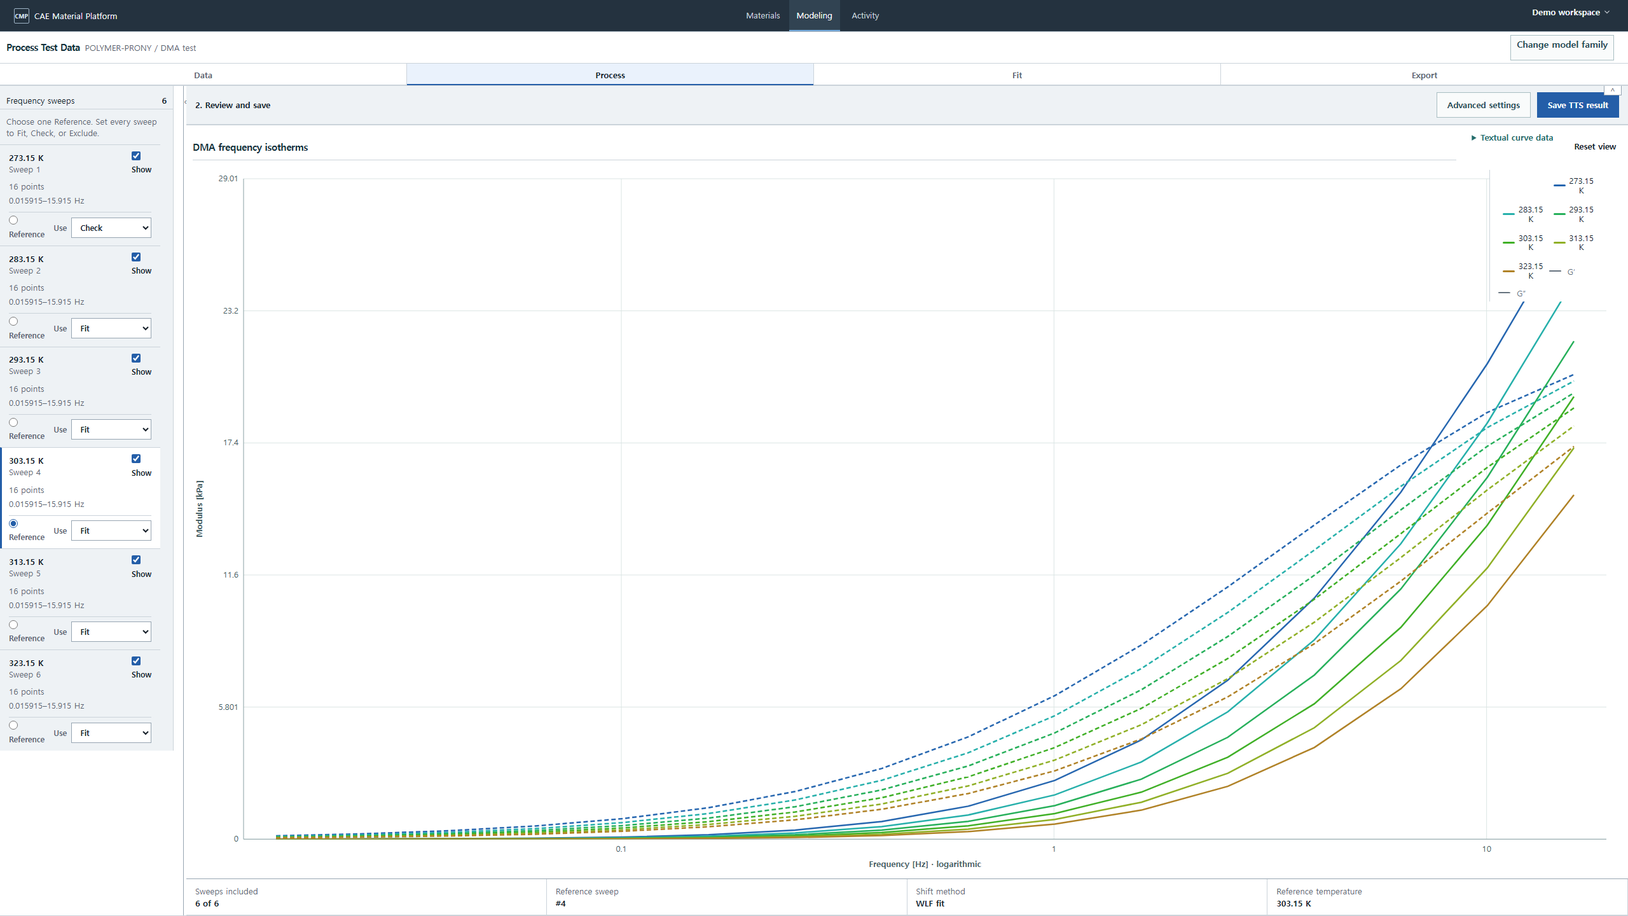
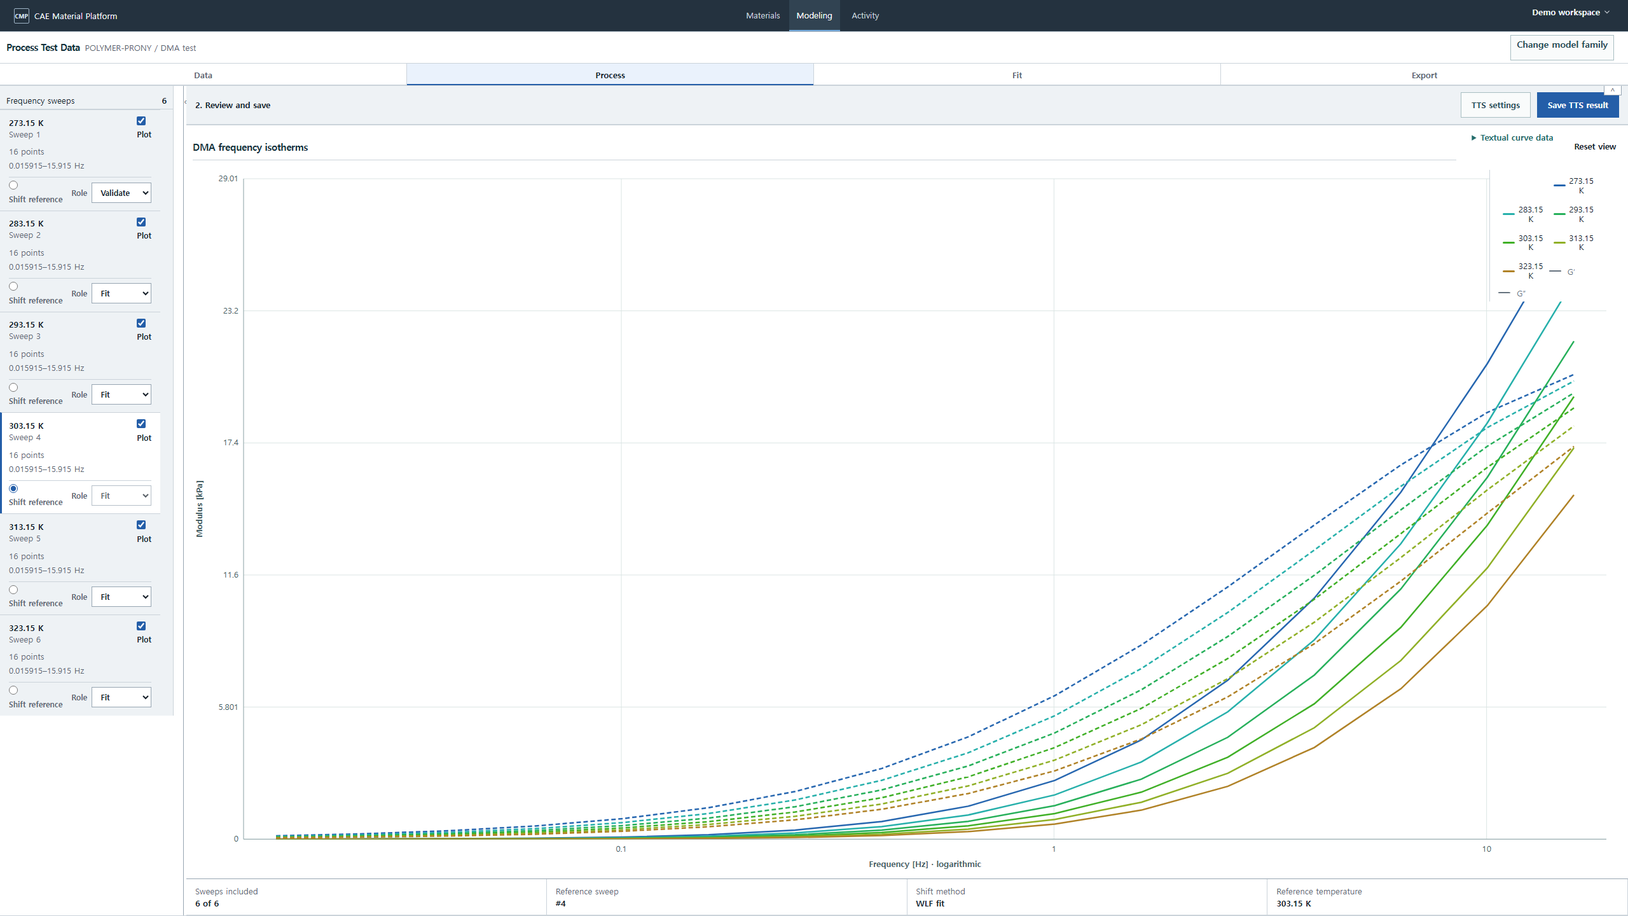
fix: clarify DMA TTS process controls

Changed region(s): [[0.0, 0.125, 0.0938, 0.8125], [0.875, 0.0938, 0.9062, 0.125]]

diff --git a/apps/web/src/features/modeling/ui/stages/process/dma-tts-process-workspace.tsx b/apps/web/src/features/modeling/ui/stages/process/dma-tts-process-workspace.tsx
@@ -31,8 +31,8 @@ export interface DmaTtsProcessWorkspaceProps {
 
 const PARTITION_LABELS: Record<DmaTtsPartition, string> = {
   CALIBRATION: "Fit",
-  HOLDOUT: "Check",
-  EXCLUDED: "Exclude",
+  HOLDOUT: "Validate",
+  EXCLUDED: "Ignore",
 };
 
 const SHIFT_LAW_LABELS: Record<string, string> = {
@@ -96,6 +96,7 @@ function MultiSweepRail({
   onReference,
   onToggle,
   onPartition,
+  onExclusionReason,
 }: {
   source: NonNullable<ReturnType<typeof useDmaTtsProcess>["multiSource"]>;
   draft: ReturnType<typeof useDmaTtsProcess>["draft"];
@@ -107,10 +108,10 @@ function MultiSweepRail({
   onReference: (ordinal: number) => void;
   onToggle: (ordinal: number) => void;
   onPartition: (ordinal: number, partition: DmaTtsPartition) => void;
+  onExclusionReason: (ordinal: number, reason: string) => void;
 }) {
   return <nav className="dma-tts-sweep-rail" aria-label="DMA frequency sweeps">
     <div className="dma-tts-rail-heading"><span>Frequency sweeps</span><strong>{source.sweeps.length}</strong></div>
-    <p className="dma-tts-rail-note">{locked ? "Saved setup. You can still show or hide curves." : "Choose one Reference. Set every sweep to Fit, Check, or Exclude."}</p>
     <div className="dma-tts-sweep-list" tabIndex={0} aria-label="Measured DMA frequency sweeps">
       {source.sweeps.map((sweep) => {
         const disposition = draft?.sweepDispositions.find((item) => item.source_sweep_ordinal === sweep.sourceSweepOrdinal);
@@ -123,13 +124,14 @@ function MultiSweepRail({
         return <article className={`dma-tts-sweep-entry${isReference ? " is-reference" : ""}`} key={sweep.sourceSweepOrdinal}>
           <div className="dma-tts-sweep-entry-head">
             <div><strong>{compact(sweep.representativeTemperatureK)} K</strong><span>Sweep {sweep.sourceSweepOrdinal}</span></div>
-            <label className="dma-tts-sweep-visibility"><input type="checkbox" checked={visible} onChange={() => onToggle(sweep.sourceSweepOrdinal)} /><span>Show</span></label>
+            <label className="dma-tts-sweep-visibility"><input type="checkbox" checked={visible} onChange={() => onToggle(sweep.sourceSweepOrdinal)} /><span>Plot</span></label>
           </div>
           <div className="dma-tts-sweep-meta"><span>{sweep.points.length} points</span><span>{rawRange(sweep.sourceFrequencyMinHz, sweep.sourceFrequencyMaxHz, "Hz")}</span></div>
           <div className="dma-tts-sweep-actions">
-            <label className="dma-tts-reference-choice"><input type="radio" name="dma-tts-reference-sweep" checked={isReference} disabled={locked} onChange={() => onReference(sweep.sourceSweepOrdinal)} /><span>Reference</span></label>
-            <label className="dma-tts-rail-partition"><span>Use</span><select aria-label={`Partition sweep ${sweep.sourceSweepOrdinal}`} value={partition} disabled={locked} onChange={(event) => onPartition(sweep.sourceSweepOrdinal, event.target.value as DmaTtsPartition)}>{(Object.keys(PARTITION_LABELS) as DmaTtsPartition[]).map((value) => <option value={value} key={value}>{PARTITION_LABELS[value]}</option>)}</select></label>
+            <label className="dma-tts-reference-choice"><input type="radio" name="dma-tts-reference-sweep" checked={isReference} disabled={locked} onChange={() => onReference(sweep.sourceSweepOrdinal)} /><span>Shift reference</span></label>
+            <label className="dma-tts-rail-partition"><span>Role</span><select aria-label={`Analysis role for sweep ${sweep.sourceSweepOrdinal}`} value={partition} disabled={locked || isReference} onChange={(event) => onPartition(sweep.sourceSweepOrdinal, event.target.value as DmaTtsPartition)}>{(Object.keys(PARTITION_LABELS) as DmaTtsPartition[]).map((value) => <option value={value} key={value}>{PARTITION_LABELS[value]}</option>)}</select></label>
           </div>
+          {!locked && partition === "EXCLUDED" ? <label className="dma-tts-exclusion-reason"><span>Reason</span><input aria-label={`Reason for ignoring sweep ${sweep.sourceSweepOrdinal}`} value={disposition?.exclusion_reason ?? ""} onChange={(event) => onExclusionReason(sweep.sourceSweepOrdinal, event.target.value)} /></label> : null}
         </article>;
       })}
     </div>
@@ -317,6 +319,7 @@ export function DmaTtsProcessWorkspace({
     onReference={process.setReferenceSweep}
     onToggle={process.toggleSweepVisibility}
     onPartition={process.setSweepDisposition}
+    onExclusionReason={process.setSweepExclusionReason}
   /> : undefined;
 
   const ribbon = <div className="dma-tts-command-ribbon">
@@ -325,7 +328,7 @@ export function DmaTtsProcessWorkspace({
     </div>
     <div className="dma-tts-command-actions">
       {process.canPrepare && !process.recommendation ? <button type="button" className="button primary" disabled={process.status === "preparing"} onClick={() => void process.prepareRecommendation()}>{process.status === "preparing" ? "Preparing…" : "Prepare recommendation"}</button> : null}
-      {process.recommendation && !process.readBack ? <button type="button" className="button secondary" onClick={() => setSettingsOpen((value) => !value)} disabled={process.status === "saving"}>{settingsOpen ? "Hide settings" : "Advanced settings"}</button> : null}
+      {process.recommendation && !process.readBack ? <button type="button" className="button secondary" onClick={() => setSettingsOpen((value) => !value)} disabled={process.status === "saving"}>{settingsOpen ? "Close settings" : "TTS settings"}</button> : null}
       {process.recommendation && !process.readBack ? <button type="button" className="button primary" disabled={!process.canSave || process.status === "saving" || process.status === "save_outcome_unknown"} onClick={() => void process.save()}>{process.status === "saving" ? "Saving…" : "Save TTS result"}</button> : null}
       {process.fitInput && process.status === "saved" ? <button type="button" className="button primary" onClick={onContinue}>Continue to Prony Fit</button> : null}
     </div>
@@ -370,8 +373,8 @@ export function DmaTtsProcessWorkspace({
               <label>C2 <span><input name="dma-tts-c2" autoComplete="off" type="number" inputMode="decimal" value={fixedDraft.c2K} onChange={(event) => process.updateDraft({ c2K: event.target.value, reason: "" })} /><b>K</b></span></label>
             </fieldset> : null}
             {multiDraft ? <div className="dma-tts-multi-settings">
-              <fieldset className="dma-tts-wlf-fields"><legend>Multi-frequency shift law</legend>
-                <label>Law<select name="dma-tts-shift-law" aria-label="Multi-frequency shift law" value={multiDraft.shiftLawKind} onChange={(event) => setMultiLawKind(event.target.value as typeof multiDraft.shiftLawKind)}><option value="wlf_fit">WLF fit</option><option value="arrhenius_fit">Arrhenius fit</option><option value="manual_tabulated">Manual/tabulated shift law</option></select></label>
+              <fieldset className="dma-tts-wlf-fields"><legend>Shift method</legend>
+                <label>Method<select name="dma-tts-shift-law" aria-label="Shift method" value={multiDraft.shiftLawKind} onChange={(event) => setMultiLawKind(event.target.value as typeof multiDraft.shiftLawKind)}><option value="wlf_fit">WLF fit</option><option value="arrhenius_fit">Arrhenius fit</option><option value="manual_tabulated">Manual</option></select></label>
                 <label>Reference temperature <span><input name="dma-tts-multi-reference-temperature" type="number" value={multiDraft.referenceTemperatureK} onChange={(event) => process.updateDraft({ referenceTemperatureK: event.target.value, reason: "" })} /><b>K</b></span></label>
                 {multiDraft.shiftLawKind === "wlf_fit" ? <>
                   <label>Initial C1 <span><input name="dma-tts-multi-c1" type="number" value={multiDraft.initialParameters[0] ?? ""} onChange={(event) => setMultiVector("initialParameters", 0, event.target.value)} /><b>1</b></span></label>
@@ -410,18 +413,17 @@ export function DmaTtsProcessWorkspace({
               <label className="dma-tts-change-reason">Engineer reason <input name="dma-tts-change-reason" autoComplete="off" type="text" value={multiDraft.reason} onChange={(event) => process.updateDraft({ reason: event.target.value })} /></label>
             </div> : null}
             {fixedDraft && settingsEdited ? <label className="dma-tts-change-reason">Reason for changes <input name="dma-tts-change-reason" autoComplete="off" type="text" value={fixedDraft.reason} onChange={(event) => process.updateDraft({ reason: event.target.value })} /></label> : null}
-            {fixedDraft ? <div className="dma-tts-temperature-table-scroll"><table><caption>Temperature disposition</caption><thead><tr><th>Temperature</th><th>Use</th><th>Reason when not used</th></tr></thead><tbody>{process.fixedSource?.rows.map((row) => {
+            {fixedDraft ? <div className="dma-tts-temperature-table-scroll"><table><caption>Temperature disposition</caption><thead><tr><th>Temperature</th><th>Role</th><th>Reason when ignored</th></tr></thead><tbody>{process.fixedSource?.rows.map((row) => {
               const disposition = fixedDraft.dispositions[row.ordinal];
               return <tr key={row.ordinal}><td>{compact(row.temperatureK)} K</td><td><select name={`dma-tts-temperature-${row.ordinal}-use`} aria-label={`Use ${compact(row.temperatureK)} K`} value={disposition.partition} onChange={(event) => process.setDisposition(row.ordinal, event.target.value as DmaTtsPartition)}>{(Object.keys(PARTITION_LABELS) as DmaTtsPartition[]).map((value) => <option value={value} key={value}>{PARTITION_LABELS[value]}</option>)}</select></td><td>{disposition.partition === "EXCLUDED" ? <input name={`dma-tts-temperature-${row.ordinal}-exclusion-reason`} autoComplete="off" aria-label={`Reason for not using ${compact(row.temperatureK)} K`} value={disposition.exclusionReason} onChange={(event) => process.setExclusionReason(row.ordinal, event.target.value)} /> : "—"}</td></tr>;
             })}</tbody></table></div> : null}
-            {multiDraft ? <div className="dma-tts-temperature-table-scroll"><table><caption>Sweep disposition</caption><thead><tr><th>Sweep</th><th>Use</th><th>Reason when excluded</th></tr></thead><tbody>{multiDraft.sweepDispositions.map((item) => <tr key={item.source_sweep_ordinal}><td>Sweep {item.source_sweep_ordinal}, {compact(item.representative_temperature_k)} K</td><td><select name={`dma-tts-sweep-${item.source_sweep_ordinal}-partition`} aria-label={`Partition sweep ${item.source_sweep_ordinal}`} value={item.partition} onChange={(event) => process.setSweepDisposition(item.source_sweep_ordinal, event.target.value as DmaTtsPartition)}>{(Object.keys(PARTITION_LABELS) as DmaTtsPartition[]).map((value) => <option value={value} key={value}>{PARTITION_LABELS[value]}</option>)}</select></td><td>{item.partition === "EXCLUDED" ? <input name={`dma-tts-sweep-${item.source_sweep_ordinal}-reason`} aria-label={`Reason for excluding sweep ${item.source_sweep_ordinal}`} value={item.exclusion_reason ?? ""} onChange={(event) => process.setSweepExclusionReason(item.source_sweep_ordinal, event.target.value)} /> : "—"}</td></tr>)}</tbody></table></div> : null}
           </div> : null}
         </> : null}
         {process.readBack ? <div className="dma-tts-result-evidence">
           <div className="dma-tts-saved-row"><h2>TTS result saved</h2><p>{process.status === "saved" ? "Ready for Prony Fit." : "The saved result is available. Fit linking needs a retry."}</p></div>
           <section className="dma-tts-result-summary" aria-labelledby="dma-tts-result-summary-heading"><h3 id="dma-tts-result-summary-heading">Result summary</h3><dl><div><dt>Shift method</dt><dd>{SHIFT_LAW_LABELS[savedShiftLaw?.kind ?? ""] ?? "—"}</dd></div><div><dt>Reference temperature</dt><dd>{savedShiftLaw ? `${compact(savedShiftLaw.reference_temperature_k)} K` : "—"}</dd></div><div><dt>Fit frequency range</dt><dd>{savedFrequencyRange}</dd></div><div><dt>Fit temperature range</dt><dd>{savedTemperatureRange}</dd></div></dl></section>
           <details className="dma-tts-result-details"><summary>Calculation details</summary><div className="dma-tts-result-details-body">
-            <section aria-labelledby="dma-tts-isotherm-results-heading"><h3 id="dma-tts-isotherm-results-heading">Sweep results</h3><div className="dma-tts-result-table-scroll"><table><thead><tr><th>Sweep</th><th>Temperature</th><th>Use</th><th>Reference</th><th>Check state</th><th>Applied log10(aT)</th><th>Shift factor</th><th>Shift residual</th><th>G′ RMSE</th><th>G″ RMSE</th><th>Overlap</th></tr></thead><tbody>{process.readBack.isotherms.map((row) => <tr key={`${row.source_sweep_ordinal ?? "fixed"}-${row.representative_temperature_k}`}><td>{row.source_sweep_ordinal ?? "fixed"}</td><td>{backendValue(row.representative_temperature_k)} K</td><td>{PARTITION_LABELS[row.partition]}</td><td>{row.is_reference ? "Yes" : "No"}</td><td>{backendValue(row.holdout_evaluation_status)}</td><td>{backendValue(row.applied_log10_a_t)}</td><td>{backendValue(row.shift_factor)}</td><td>{backendValue(row.shift_residual_log10_a_t)}</td><td>{backendValue(row.storage_rmse)}</td><td>{backendValue(row.loss_rmse)}</td><td>{backendValue(row.overlap_log10_reduced_angular_frequency_min)}–{backendValue(row.overlap_log10_reduced_angular_frequency_max)}</td></tr>)}</tbody></table></div></section>
+            <section aria-labelledby="dma-tts-isotherm-results-heading"><h3 id="dma-tts-isotherm-results-heading">Sweep results</h3><div className="dma-tts-result-table-scroll"><table><thead><tr><th>Sweep</th><th>Temperature</th><th>Role</th><th>Shift reference</th><th>Validation state</th><th>Applied log10(aT)</th><th>Shift factor</th><th>Shift residual</th><th>G′ RMSE</th><th>G″ RMSE</th><th>Overlap</th></tr></thead><tbody>{process.readBack.isotherms.map((row) => <tr key={`${row.source_sweep_ordinal ?? "fixed"}-${row.representative_temperature_k}`}><td>{row.source_sweep_ordinal ?? "fixed"}</td><td>{backendValue(row.representative_temperature_k)} K</td><td>{PARTITION_LABELS[row.partition]}</td><td>{row.is_reference ? "Yes" : "No"}</td><td>{backendValue(row.holdout_evaluation_status)}</td><td>{backendValue(row.applied_log10_a_t)}</td><td>{backendValue(row.shift_factor)}</td><td>{backendValue(row.shift_residual_log10_a_t)}</td><td>{backendValue(row.storage_rmse)}</td><td>{backendValue(row.loss_rmse)}</td><td>{backendValue(row.overlap_log10_reduced_angular_frequency_min)}–{backendValue(row.overlap_log10_reduced_angular_frequency_max)}</td></tr>)}</tbody></table></div></section>
             <section className="dma-tts-output-summary" aria-labelledby="dma-tts-output-summary-heading"><h3 id="dma-tts-output-summary-heading">Assessment</h3><dl><div><dt>Adequacy</dt><dd>{ASSESSMENT_LABELS[savedAssessment?.adequacy ?? ""] ?? "—"}</dd></div><div><dt>Uncertainty</dt><dd>{ASSESSMENT_LABELS[savedAssessment?.uncertainty ?? ""] ?? "—"}</dd></div><div><dt>Identifiability</dt><dd>{ASSESSMENT_LABELS[savedAssessment?.identifiability ?? ""] ?? "—"}</dd></div><div><dt>Production use</dt><dd>{ASSESSMENT_LABELS[savedAssessment?.production_readiness ?? ""] ?? "—"}</dd></div>{savedWarnings.length ? <div className="dma-tts-output-warnings"><dt>Missing evidence</dt><dd><span className="dma-tts-warning-list">{savedWarnings.map((warning) => <span key={warning}>{WARNING_LABELS[warning] ?? warning}</span>)}</span></dd></div> : null}</dl></section>
           </div></details>
         </div> : null}

diff --git a/apps/web/e2e/polymer-linear-viscoelastic-fit.spec.ts b/apps/web/e2e/polymer-linear-viscoelastic-fit.spec.ts
@@ -832,17 +832,28 @@ test("Issue #392 imports NIST multi-frequency DMA, saves exact TTS, and restores
   await expect(page.getByText("Sweeps included", { exact: true })).toBeVisible();
   await expect(page.getByText("#4", { exact: true })).toBeVisible();
 
-  await page.getByRole("button", { name: "Advanced settings", exact: true }).click();
-  const law = page.getByLabel("Multi-frequency shift law");
+  const referenceRadios = page.getByRole("radio", { name: "Shift reference" });
+  await expect(referenceRadios).toHaveCount(6);
+  await expect(referenceRadios.nth(NIST_SRM_2491_REFERENCE_SWEEP_ORDINAL - 1)).toBeChecked();
+  await expect(page.getByLabel(`Analysis role for sweep ${NIST_SRM_2491_REFERENCE_SWEEP_ORDINAL}`)).toBeDisabled();
+  const visibleSweepRole = page.getByLabel("Analysis role for sweep 2");
+  await visibleSweepRole.selectOption("EXCLUDED");
+  const ignoreReason = page.getByLabel("Reason for ignoring sweep 2");
+  await expect(ignoreReason).toBeVisible();
+  await ignoreReason.fill("Outside the selected fit range");
+  await visibleSweepRole.selectOption("CALIBRATION");
+  await expect(ignoreReason).toHaveCount(0);
+  await page.getByRole("button", { name: "TTS settings", exact: true }).click();
+  const law = page.getByLabel("Shift method");
   await expect(law).toBeVisible();
   await expect(law.locator("option")).toHaveText([
     "WLF fit",
     "Arrhenius fit",
-    "Manual/tabulated shift law",
+    "Manual",
   ]);
   await expect(page.locator('input[name="dma-tts-adjacent-xatol"]')).toHaveAttribute("readonly", "");
   await expect(page.locator('input[name="dma-tts-law-ftol"]')).toHaveAttribute("readonly", "");
-  await page.getByRole("button", { name: "Hide settings", exact: true }).click();
+  await page.getByRole("button", { name: "Close settings", exact: true }).click();
   await captureIssue392ProcessState(page, "recommendation");
 
   const createResponse = page.waitForResponse((response) => (
@@ -871,12 +882,12 @@ test("Issue #392 imports NIST multi-frequency DMA, saves exact TTS, and restores
   await calculationDetails.getByText("Calculation details", { exact: true }).click();
   const backendResults = page.getByRole("table").filter({ hasText: "Applied log10(aT)" });
   await expect(backendResults.locator("tbody > tr")).toHaveCount(6);
-  await expect(backendResults.getByRole("cell", { name: "Check", exact: true })).toBeVisible();
+  await expect(backendResults.getByRole("cell", { name: "Validate", exact: true })).toBeVisible();
   await expect(page.locator(".curve-legend button")).toHaveCount(6);
   await expect(page.locator(".dma-legend-line-key", { hasText: "Raw" })).toBeVisible();
   await expect(page.locator(".dma-legend-line-key", { hasText: "Shifted" })).toBeVisible();
-  await expect(page.getByRole("radio", { name: /Reference/ }).first()).toBeDisabled();
-  await expect(page.getByLabel("Partition sweep 1").first()).toBeDisabled();
+  await expect(page.getByRole("radio", { name: "Shift reference" }).first()).toBeDisabled();
+  await expect(page.getByLabel("Analysis role for sweep 1").first()).toBeDisabled();
   expect(processCreateRequests).toHaveLength(1);
   await calculationDetails.getByText("Calculation details", { exact: true }).click();
   await captureIssue392ProcessState(page, "saved");

diff --git a/apps/web/src/features/modeling/ui/stages/process/dma-tts-process-workspace.css b/apps/web/src/features/modeling/ui/stages/process/dma-tts-process-workspace.css
@@ -55,14 +55,6 @@
   font-weight: var(--ux-font-weight-label);
 }
 
-.dma-tts-rail-note {
-  margin: 0;
-  padding: var(--ux-space-2);
-  color: var(--ux-text-muted);
-  font-size: var(--ux-metadata-font-size);
-  line-height: 1.35;
-}
-
 .dma-tts-sweep-list {
   min-height: 0;
   padding-inline-end: var(--ux-space-1);
@@ -175,7 +167,16 @@
   font-size: var(--ux-metadata-font-size);
 }
 
-.dma-tts-rail-partition select {
+.dma-tts-exclusion-reason {
+  display: grid;
+  grid-template-columns: auto minmax(0, 1fr);
+  align-items: center;
+  gap: var(--ux-space-1);
+  color: var(--ux-text-muted);
+}
+
+.dma-tts-rail-partition select,
+.dma-tts-exclusion-reason input {
   width: 100%;
   min-width: 0;
   min-height: var(--ux-engineering-control-block-size);

diff --git a/apps/web/src/features/modeling/ui/stages/process/dma-tts-process-workspace.test.tsx b/apps/web/src/features/modeling/ui/stages/process/dma-tts-process-workspace.test.tsx
@@ -249,7 +249,7 @@ describe("DMA TTS Process workspace", () => {
     fireEvent.click(await screen.findByRole("button", { name: "Prepare recommendation" }));
     fireEvent.click(await screen.findByRole("button", { name: "Save TTS result" }));
     await screen.findByText("Correct the governed draft.");
-    fireEvent.click(screen.getByRole("button", { name: "Advanced settings" }));
+    fireEvent.click(screen.getByRole("button", { name: "TTS settings" }));
     const c1 = document.querySelector('input[name="dma-tts-c1"]') as HTMLInputElement;
     expect(c1).toBeTruthy();
     expect(c1.disabled).toBe(false);

diff --git a/docs/17-evidence/issue-392-dma-tts-process-ui/README.md b/docs/17-evidence/issue-392-dma-tts-process-ui/README.md
@@ -18,8 +18,8 @@
 The browser imports the bounded NIST SRM 2491-derived six-temperature frequency-sweep fixture, resolves the
 five required DMA channels, and enters Process. It asks the backend for the recommendation, displays sweep 4
 at 303.15 K as the recommended reference without recalculating that decision in React, and keeps sweep 1 as
-the checking partition. The left rail names the three decisions directly: Show, Reference and
-Fit/Check/Exclude. The engineer may review **Advanced settings**, then performs one explicit **Save TTS
+the validation partition. The left rail names the three decisions directly: Plot, Shift reference and
+Fit/Validate/Ignore roles. The shift reference remains locked to Fit. The engineer may review **TTS settings**, then performs one explicit **Save TTS
 result** action. After `201`, the client reads the exact specialized output and common Processing Output link,
 displays raw plus backend-shifted sweeps, and uses **Continue to Prony Fit** with that pinned revision. Fit
 calculates the 1–10-term candidates, exposes the recommendation separately from engineer Selection, saves an
@@ -45,8 +45,10 @@ exact read or common-link loading retry only those GETs.
 - Product-owner correction: the first visual pass was rejected because the sweep rail was narrow and unclear,
   filenames and conditions were concatenated into long helper copy, and backend evidence dominated the saved
   state. The corrected pass widens and labels the rail, presents Prepare → Review and save → Continue to Prony
-  Fit, and keeps sweep metrics, assessments and warnings under **Calculation details**. Final owner geometry
-  disposition remains pending.
+  Fit, keeps sweep metrics, assessments and warnings under **Calculation details**, and then replaces the
+  ambiguous Show/Use/Check labels with Plot and Fit/Validate/Ignore roles while locking the shift reference
+  to Fit. The duplicated sweep-role table was removed from TTS settings. Final owner geometry disposition
+  remains pending.
 
 ## #249 synthesis disposition
 

diff --git a/docs/user-guide/03-polymer-viscoelastic.md b/docs/user-guide/03-polymer-viscoelastic.md
@@ -6,11 +6,12 @@
 2. 다음 단계는 데이터 형태에 따라 자동으로 정해집니다.
    - 시간-완화탄성률 또는 한 온도의 DMA 주파수 자료: **Fit**으로 바로 이동합니다.
    - 여러 온도에서 측정한 DMA 자료: **Process**에서 온도 이동 결과를 먼저 만듭니다.
-3. **Process** 왼쪽의 **Frequency sweeps**에서 각 곡선을 다룹니다. **Show**는 그래프 표시 여부,
-   **Reference**는 온도 이동의 기준 곡선, **Use**는 **Fit**, **Check**, **Exclude** 중 계산 용도를
-   뜻합니다. **Prepare recommendation**을 누르면 서버 제안이 이 선택에 반영됩니다.
+3. **Process** 왼쪽의 **Frequency sweeps**에서 각 곡선을 다룹니다. **Plot**은 그래프 표시 여부,
+   **Shift reference**는 온도 이동의 기준 곡선, **Role**은 **Fit**, **Validate**, **Ignore** 중 분석
+   역할을 뜻합니다. 기준 곡선은 항상 **Fit**입니다. **Prepare recommendation**을 누르면 서버 제안이
+   이 선택에 반영됩니다.
 4. 그래프와 제안을 확인한 뒤 **Save TTS result**를 누릅니다. 보통은 값을 바꿀 필요가 없습니다.
-   필요한 경우에만 **Advanced settings**를 엽니다. 저장 뒤에는 핵심 범위만 보이며, shift factor와
+   필요한 경우에만 **TTS settings**를 열어 shift method를 바꿉니다. 저장 뒤에는 핵심 범위만 보이며, shift factor와
    판정 근거는 **Calculation details**에서 확인할 수 있습니다. **Continue to Prony Fit**으로 이동합니다.
 5. **Fit**에서 **Calculate Prony models**를 누릅니다. 새 입력에 검토된 계산 설정이 아직 없으면
    **Review calculation settings**가 먼저 나타납니다. 일반 사용자는 기본값을 그대로 검토 요청하고,
